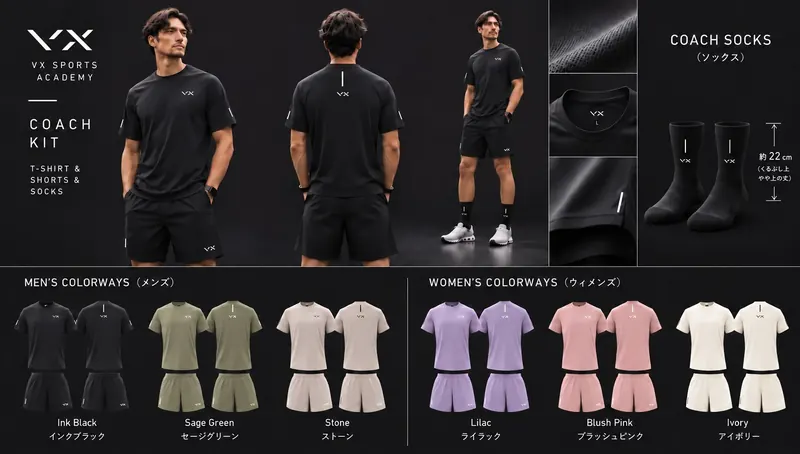
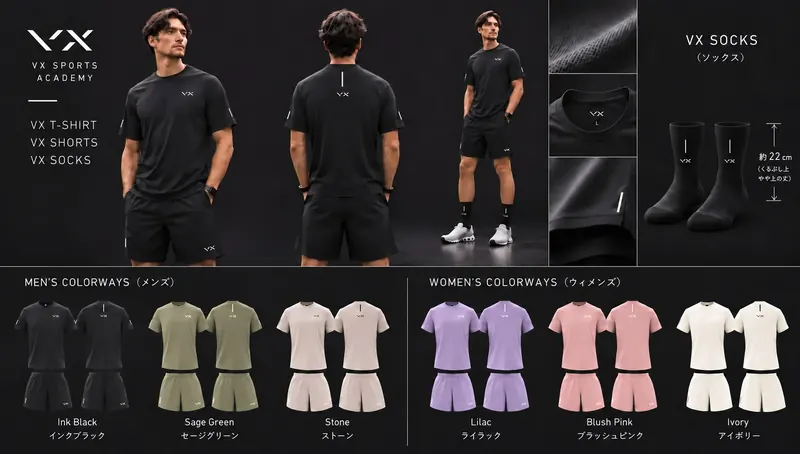
アパレルの商品画像を差し替え（COACHの文字なし・VX T-SHIRT／SHORTS／SOCKS）、共有画像とリールも更新
Claude-Session: https://claude.ai/code/session_01Bte9geLhnSJWd4mLwPLymb

diff --git a/apparel.html b/apparel.html
@@ -41,8 +41,10 @@
 <noscript><link rel="preload" as="style" href="https://fonts.googleapis.com/css2?family=Archivo:wdth,wght@62..125,300;62..125,400;62..125,500;62..125,600&family=Noto+Sans+JP:wght@400;500;700&display=swap" onload="this.onload=null;this.rel='stylesheet'">
 <noscript><link rel="preload" as="style" href="https://fonts.googleapis.com/css2?family=Archivo:wdth,wght@62..125,300;62..125,400;62..125,500;62..125,600&family=Noto+Sans+JP:wght@400;500;700&display=swap" onload="this.onload=null;this.rel='stylesheet'">
 <noscript><link rel="preload" as="style" href="https://fonts.googleapis.com/css2?family=Archivo:wdth,wght@62..125,300;62..125,400;62..125,500;62..125,600&family=Noto+Sans+JP:wght@400;500;700&display=swap" onload="this.onload=null;this.rel='stylesheet'">
-<noscript><link rel="stylesheet" href="https://fonts.googleapis.com/css2?family=Archivo:wdth,wght@62..125,300;62..125,400;62..125,500;62..125,600&family=Noto+Sans+JP:wght@400;500;700&display=swap"></noscript></noscript></noscript></noscript></noscript></noscript></noscript></noscript></noscript>
-<link rel="stylesheet" href="assets/site.css?v=1794979775">
+<noscript><link rel="preload" as="style" href="https://fonts.googleapis.com/css2?family=Archivo:wdth,wght@62..125,300;62..125,400;62..125,500;62..125,600&family=Noto+Sans+JP:wght@400;500;700&display=swap" onload="this.onload=null;this.rel='stylesheet'">
+<noscript><link rel="preload" as="style" href="https://fonts.googleapis.com/css2?family=Archivo:wdth,wght@62..125,300;62..125,400;62..125,500;62..125,600&family=Noto+Sans+JP:wght@400;500;700&display=swap" onload="this.onload=null;this.rel='stylesheet'">
+<noscript><link rel="stylesheet" href="https://fonts.googleapis.com/css2?family=Archivo:wdth,wght@62..125,300;62..125,400;62..125,500;62..125,600&family=Noto+Sans+JP:wght@400;500;700&display=swap"></noscript></noscript></noscript></noscript></noscript></noscript></noscript></noscript></noscript></noscript></noscript>
+<link rel="stylesheet" href="assets/site.css?v=1794980003">
 </head>
 <body>
 <header class="site-header">
@@ -82,7 +84,7 @@
         <span class="status fill">予約受付中 ／ PRE-ORDER</span>
         <h1 class="catch">動ける服を、<br>毎日の服に。</h1>
       </div>
-      <a class="apparel-link" href="assets/apparel-colors.jpg" target="_blank" rel="noopener"><img class="apparel-img" src="assets/apparel-colors.webp" srcset="assets/apparel-colors-800.webp 800w, assets/apparel-colors.webp 1536w" sizes="(max-width: 480px) 100vw, 480px" alt="VX APPAREL。メンズはインクブラック・セージグリーン・ストーン、ウィメンズはライラック・ブラッシュピンク・アイボリー" fetchpriority="high" width="1536" height="1024"></a>
+      <a class="apparel-link" href="assets/apparel-colors.jpg" target="_blank" rel="noopener"><img class="apparel-img" src="assets/apparel-colors.webp" srcset="assets/apparel-colors-800.webp 800w, assets/apparel-colors.webp 1536w" sizes="(max-width: 480px) 100vw, 480px" alt="VX T-SHIRT・VX SHORTS。メンズはインクブラック・セージグリーン・ストーン、ウィメンズはライラック・ブラッシュピンク・アイボリー" fetchpriority="high" width="1536" height="1024"></a>
       <p class="zoom-hint">画像をタップすると拡大できます</p>
       <p class="lead sub">軽量・速乾・吸汗速乾。4方向ストレッチと撥水性、動きやすいスリット、夜でも目立つリフレクティブ。トレーニングにも普段着にも使えるセットアップです。</p>
       <div class="products">
@@ -91,7 +93,7 @@
         <div class="product"><p class="en sub">VX SOCKS</p><p class="name">ソックス</p><p class="price">¥2,200<small>税込</small></p><p class="meta">約22cm丈・ブラック</p></div>
         <div class="product set"><p class="en sub">Full Kit</p><p class="name">3点セット</p><p class="price">¥19,800<small>税込</small></p><p class="meta">Tシャツ＋ショーツ＋ソックス<br>単品合計より¥2,200お得</p></div>
       </div>
-      <a class="apparel-link" href="assets/apparel-kit-2.jpg" target="_blank" rel="noopener"><img class="apparel-img" src="assets/apparel-kit-2.webp" srcset="assets/apparel-kit-2-800.webp 800w, assets/apparel-kit-2.webp 1536w" sizes="(max-width: 480px) 100vw, 480px" alt="VX APPARELの着用イメージ、ディテール、カラー展開" fetchpriority="high" width="1536" height="872"></a>
+      <a class="apparel-link" href="assets/apparel-kit-2.jpg" target="_blank" rel="noopener"><img class="apparel-img" src="assets/apparel-kit-2.webp" srcset="assets/apparel-kit-2-800.webp 800w, assets/apparel-kit-2.webp 1665w" sizes="(max-width: 480px) 100vw, 480px" alt="VX T-SHIRT・VX SHORTS・VX SOCKSの着用イメージ、ディテール、メンズ・ウィメンズのカラー展開" fetchpriority="high" width="1665" height="945"></a>
 
       <form class="order" id="order-form" aria-label="予約内容をつくる">
         <h2>PRE-ORDER</h2>
@@ -217,6 +219,6 @@
   update();
 })();
 </script>
-<script src="assets/i18n.js?v=1794979775"></script>
+<script src="assets/i18n.js?v=1794980003"></script>
 </body>
 </html>

diff --git a/en/apparel.html b/en/apparel.html
@@ -40,8 +40,10 @@
 <noscript><link rel="preload" as="style" href="https://fonts.googleapis.com/css2?family=Archivo:wdth,wght@62..125,300;62..125,400;62..125,500;62..125,600&family=Noto+Sans+JP:wght@400;500;700&display=swap" onload="this.onload=null;this.rel='stylesheet'">
 <noscript><link rel="preload" as="style" href="https://fonts.googleapis.com/css2?family=Archivo:wdth,wght@62..125,300;62..125,400;62..125,500;62..125,600&family=Noto+Sans+JP:wght@400;500;700&display=swap" onload="this.onload=null;this.rel='stylesheet'">
 <noscript><link rel="preload" as="style" href="https://fonts.googleapis.com/css2?family=Archivo:wdth,wght@62..125,300;62..125,400;62..125,500;62..125,600&family=Noto+Sans+JP:wght@400;500;700&display=swap" onload="this.onload=null;this.rel='stylesheet'">
+<noscript><link rel="preload" as="style" href="https://fonts.googleapis.com/css2?family=Archivo:wdth,wght@62..125,300;62..125,400;62..125,500;62..125,600&family=Noto+Sans+JP:wght@400;500;700&display=swap" onload="this.onload=null;this.rel='stylesheet'">
+<noscript><link rel="preload" as="style" href="https://fonts.googleapis.com/css2?family=Archivo:wdth,wght@62..125,300;62..125,400;62..125,500;62..125,600&family=Noto+Sans+JP:wght@400;500;700&display=swap" onload="this.onload=null;this.rel='stylesheet'">
 <noscript><link rel="stylesheet" href="https://fonts.googleapis.com/css2?family=Archivo:wdth,wght@62..125,300;62..125,400;62..125,500;62..125,600&family=Noto+Sans+JP:wght@400;500;700&display=swap"></noscript>
-<link rel="stylesheet" href="../assets/site.css?v=1794979775">
+<link rel="stylesheet" href="../assets/site.css?v=1794980003">
 </head>
 <body>
 <header class="site-header">
@@ -81,7 +83,7 @@
         <span class="status fill">Now Taking Pre-Orders ／ PRE-ORDER</span>
         <h1 class="catch">Clothes made to move,<br>for every day.</h1>
       </div>
-      <a class="apparel-link" href="../assets/apparel-colors.jpg" target="_blank" rel="noopener"><img class="apparel-img" src="../assets/apparel-colors.webp" srcset="../assets/apparel-colors-800.webp 800w, ../assets/apparel-colors.webp 1536w" sizes="(max-width: 480px) 100vw, 480px" alt="VX APPAREL。メンズはインクブラック・セージグリーン・ストーン、ウィメンズはライラック・ブラッシュピンク・アイボリー" fetchpriority="high" width="1536" height="1024"></a>
+      <a class="apparel-link" href="../assets/apparel-colors.jpg" target="_blank" rel="noopener"><img class="apparel-img" src="../assets/apparel-colors.webp" srcset="../assets/apparel-colors-800.webp 800w, ../assets/apparel-colors.webp 1536w" sizes="(max-width: 480px) 100vw, 480px" alt="VX T-SHIRT・VX SHORTS。メンズはインクブラック・セージグリーン・ストーン、ウィメンズはライラック・ブラッシュピンク・アイボリー" fetchpriority="high" width="1536" height="1024"></a>
       <p class="zoom-hint">Tap the image to enlarge</p>
       <p class="lead sub">Lightweight, quick-dry and sweat-wicking. 4-way stretch, water repellent, side slits for movement and reflective details for night. A set-up for training and everyday wear.</p>
       <div class="products">
@@ -90,7 +92,7 @@
         <div class="product"><p class="en sub">VX SOCKS</p><p class="name">Socks</p><p class="price">¥2,200<small>incl. tax</small></p><p class="meta">Approx. 22 cm, black</p></div>
         <div class="product set"><p class="en sub">Full Kit</p><p class="name">3-Piece Set</p><p class="price">¥19,800<small>incl. tax</small></p><p class="meta">T-shirt + shorts + socks<br>Save ¥2,200 vs. buying separately</p></div>
       </div>
-      <a class="apparel-link" href="../assets/apparel-kit-2.jpg" target="_blank" rel="noopener"><img class="apparel-img" src="../assets/apparel-kit-2.webp" srcset="../assets/apparel-kit-2-800.webp 800w, ../assets/apparel-kit-2.webp 1536w" sizes="(max-width: 480px) 100vw, 480px" alt="VX APPARELの着用イメージ、ディテール、カラー展開" fetchpriority="high" width="1536" height="872"></a>
+      <a class="apparel-link" href="../assets/apparel-kit-2.jpg" target="_blank" rel="noopener"><img class="apparel-img" src="../assets/apparel-kit-2.webp" srcset="../assets/apparel-kit-2-800.webp 800w, ../assets/apparel-kit-2.webp 1665w" sizes="(max-width: 480px) 100vw, 480px" alt="VX T-SHIRT・VX SHORTS・VX SOCKSの着用イメージ、ディテール、メンズ・ウィメンズのカラー展開" fetchpriority="high" width="1665" height="945"></a>
 
       <form class="order" id="order-form" aria-label="予約内容をつくる">
         <h2>PRE-ORDER</h2>
@@ -216,7 +218,7 @@
   update();
 })();
 </script>
-<script src="../assets/i18n.js?v=1794979775"></script>
+<script src="../assets/i18n.js?v=1794980003"></script>
 
 
 </body></html>

diff --git a/zh/apparel.html b/zh/apparel.html
@@ -40,8 +40,10 @@
 <noscript><link rel="preload" as="style" href="https://fonts.googleapis.com/css2?family=Archivo:wdth,wght@62..125,300;62..125,400;62..125,500;62..125,600&family=Noto+Sans+JP:wght@400;500;700&display=swap" onload="this.onload=null;this.rel='stylesheet'">
 <noscript><link rel="preload" as="style" href="https://fonts.googleapis.com/css2?family=Archivo:wdth,wght@62..125,300;62..125,400;62..125,500;62..125,600&family=Noto+Sans+JP:wght@400;500;700&display=swap" onload="this.onload=null;this.rel='stylesheet'">
 <noscript><link rel="preload" as="style" href="https://fonts.googleapis.com/css2?family=Archivo:wdth,wght@62..125,300;62..125,400;62..125,500;62..125,600&family=Noto+Sans+JP:wght@400;500;700&display=swap" onload="this.onload=null;this.rel='stylesheet'">
+<noscript><link rel="preload" as="style" href="https://fonts.googleapis.com/css2?family=Archivo:wdth,wght@62..125,300;62..125,400;62..125,500;62..125,600&family=Noto+Sans+JP:wght@400;500;700&display=swap" onload="this.onload=null;this.rel='stylesheet'">
+<noscript><link rel="preload" as="style" href="https://fonts.googleapis.com/css2?family=Archivo:wdth,wght@62..125,300;62..125,400;62..125,500;62..125,600&family=Noto+Sans+JP:wght@400;500;700&display=swap" onload="this.onload=null;this.rel='stylesheet'">
 <noscript><link rel="stylesheet" href="https://fonts.googleapis.com/css2?family=Archivo:wdth,wght@62..125,300;62..125,400;62..125,500;62..125,600&family=Noto+Sans+JP:wght@400;500;700&display=swap"></noscript>
-<link rel="stylesheet" href="../assets/site.css?v=1794979775">
+<link rel="stylesheet" href="../assets/site.css?v=1794980003">
 </head>
 <body>
 <header class="site-header">
@@ -81,7 +83,7 @@
         <span class="status fill">接受预订中 ／ PRE-ORDER</span>
         <h1 class="catch">能运动的衣服，<br>变成每天的衣服。</h1>
       </div>
-      <a class="apparel-link" href="../assets/apparel-colors.jpg" target="_blank" rel="noopener"><img class="apparel-img" src="../assets/apparel-colors.webp" srcset="../assets/apparel-colors-800.webp 800w, ../assets/apparel-colors.webp 1536w" sizes="(max-width: 480px) 100vw, 480px" alt="VX APPAREL。メンズはインクブラック・セージグリーン・ストーン、ウィメンズはライラック・ブラッシュピンク・アイボリー" fetchpriority="high" width="1536" height="1024"></a>
+      <a class="apparel-link" href="../assets/apparel-colors.jpg" target="_blank" rel="noopener"><img class="apparel-img" src="../assets/apparel-colors.webp" srcset="../assets/apparel-colors-800.webp 800w, ../assets/apparel-colors.webp 1536w" sizes="(max-width: 480px) 100vw, 480px" alt="VX T-SHIRT・VX SHORTS。メンズはインクブラック・セージグリーン・ストーン、ウィメンズはライラック・ブラッシュピンク・アイボリー" fetchpriority="high" width="1536" height="1024"></a>
       <p class="zoom-hint">点击图片可放大</p>
       <p class="lead sub">轻量、速干、吸汗。四向弹力与防泼水，便于活动的开衩，夜间醒目的反光设计。训练与日常皆宜的套装。</p>
       <div class="products">
@@ -90,7 +92,7 @@
         <div class="product"><p class="en sub">VX SOCKS</p><p class="name">袜子</p><p class="price">¥2,200<small>含税</small></p><p class="meta">约22cm长・黑色</p></div>
         <div class="product set"><p class="en sub">Full Kit</p><p class="name">三件套</p><p class="price">¥19,800<small>含税</small></p><p class="meta">T恤＋短裤＋袜子<br>比单买合计便宜¥2,200</p></div>
       </div>
-      <a class="apparel-link" href="../assets/apparel-kit-2.jpg" target="_blank" rel="noopener"><img class="apparel-img" src="../assets/apparel-kit-2.webp" srcset="../assets/apparel-kit-2-800.webp 800w, ../assets/apparel-kit-2.webp 1536w" sizes="(max-width: 480px) 100vw, 480px" alt="VX APPARELの着用イメージ、ディテール、カラー展開" fetchpriority="high" width="1536" height="872"></a>
+      <a class="apparel-link" href="../assets/apparel-kit-2.jpg" target="_blank" rel="noopener"><img class="apparel-img" src="../assets/apparel-kit-2.webp" srcset="../assets/apparel-kit-2-800.webp 800w, ../assets/apparel-kit-2.webp 1665w" sizes="(max-width: 480px) 100vw, 480px" alt="VX T-SHIRT・VX SHORTS・VX SOCKSの着用イメージ、ディテール、メンズ・ウィメンズのカラー展開" fetchpriority="high" width="1665" height="945"></a>
 
       <form class="order" id="order-form" aria-label="予約内容をつくる">
         <h2>PRE-ORDER</h2>
@@ -216,7 +218,7 @@
   update();
 })();
 </script>
-<script src="../assets/i18n.js?v=1794979775"></script>
+<script src="../assets/i18n.js?v=1794980003"></script>
 
 
 </body></html>

diff --git a/index.html b/index.html
@@ -43,8 +43,10 @@
 <noscript><link rel="preload" as="style" href="https://fonts.googleapis.com/css2?family=Archivo:wdth,wght@62..125,300;62..125,400;62..125,500;62..125,600&family=Noto+Sans+JP:wght@400;500;700&display=swap" onload="this.onload=null;this.rel='stylesheet'">
 <noscript><link rel="preload" as="style" href="https://fonts.googleapis.com/css2?family=Archivo:wdth,wght@62..125,300;62..125,400;62..125,500;62..125,600&family=Noto+Sans+JP:wght@400;500;700&display=swap" onload="this.onload=null;this.rel='stylesheet'">
 <noscript><link rel="preload" as="style" href="https://fonts.googleapis.com/css2?family=Archivo:wdth,wght@62..125,300;62..125,400;62..125,500;62..125,600&family=Noto+Sans+JP:wght@400;500;700&display=swap" onload="this.onload=null;this.rel='stylesheet'">
-<noscript><link rel="stylesheet" href="https://fonts.googleapis.com/css2?family=Archivo:wdth,wght@62..125,300;62..125,400;62..125,500;62..125,600&family=Noto+Sans+JP:wght@400;500;700&display=swap"></noscript></noscript></noscript></noscript></noscript></noscript></noscript></noscript></noscript>
-<link rel="stylesheet" href="assets/site.css?v=1794979775">
+<noscript><link rel="preload" as="style" href="https://fonts.googleapis.com/css2?family=Archivo:wdth,wght@62..125,300;62..125,400;62..125,500;62..125,600&family=Noto+Sans+JP:wght@400;500;700&display=swap" onload="this.onload=null;this.rel='stylesheet'">
+<noscript><link rel="preload" as="style" href="https://fonts.googleapis.com/css2?family=Archivo:wdth,wght@62..125,300;62..125,400;62..125,500;62..125,600&family=Noto+Sans+JP:wght@400;500;700&display=swap" onload="this.onload=null;this.rel='stylesheet'">
+<noscript><link rel="stylesheet" href="https://fonts.googleapis.com/css2?family=Archivo:wdth,wght@62..125,300;62..125,400;62..125,500;62..125,600&family=Noto+Sans+JP:wght@400;500;700&display=swap"></noscript></noscript></noscript></noscript></noscript></noscript></noscript></noscript></noscript></noscript></noscript>
+<link rel="stylesheet" href="assets/site.css?v=1794980003">
 </head>
 <body>
 <header class="site-header">
@@ -141,7 +143,7 @@
       <h2 class="lockup big-word" aria-label="VX APPAREL"><img src="assets/logo.svg" alt="" width="332" height="104"><i></i><span>APPAREL</span></h2>
       <p class="cat-kind">アパレル</p>
       <span class="svc-status"><i aria-hidden="true"></i>予約受付中</span>
-      <a class="cat-img" href="apparel.html" aria-label="VX APPARELを見る"><img src="assets/apparel-kit-2.webp" srcset="assets/apparel-kit-2-800.webp 800w, assets/apparel-kit-2.webp 1536w" sizes="(max-width: 480px) 100vw, 480px" alt="VX APPAREL：普段着にもなるアパレル（Tシャツ・ショーツ・ソックス）" loading="lazy" width="1536" height="1024"></a>
+      <a class="cat-img" href="apparel.html" aria-label="VX APPARELを見る"><img src="assets/apparel-kit-2.webp" srcset="assets/apparel-kit-2-800.webp 800w, assets/apparel-kit-2.webp 1665w" sizes="(max-width: 480px) 100vw, 480px" alt="VX APPAREL：普段着にもなるアパレル（Tシャツ・ショーツ・ソックス）" loading="lazy" width="1665" height="945"></a>
       <p class="cat-copy">動ける服を、毎日の服に。</p>
       <ul class="cat-facts"><li>3点セット ¥19,800</li><li>メンズ・ウィメンズ 6色</li><li>予約注文</li></ul>
       <a class="svc-more cat-btn" href="apparel.html">詳しく見る</a>
@@ -255,6 +257,6 @@
   <a class="p" href="https://lin.ee/P7ZYT6p" target="_blank" rel="noopener"><svg viewBox="0 0 24 24" fill="none" stroke="currentColor" stroke-width="1.8" aria-hidden="true"><path d="M12 4C7 4 3 7.2 3 11.2c0 3.6 3.2 6.6 7.5 7.1-.2.9-.6 2.1-.7 2.4 0 .3.3.5.6.3 1.2-.8 4.3-2.8 5.9-4.3 2.3-1.3 3.7-3.3 3.7-5.5C21 7.2 17 4 12 4Z"/></svg>LINEでお問い合わせ</a>
 </div>
 
-<script src="assets/i18n.js?v=1794979775"></script>
+<script src="assets/i18n.js?v=1794980003"></script>
 </body>
 </html>

diff --git a/en/index.html b/en/index.html
@@ -42,8 +42,10 @@
 <noscript><link rel="preload" as="style" href="https://fonts.googleapis.com/css2?family=Archivo:wdth,wght@62..125,300;62..125,400;62..125,500;62..125,600&family=Noto+Sans+JP:wght@400;500;700&display=swap" onload="this.onload=null;this.rel='stylesheet'">
 <noscript><link rel="preload" as="style" href="https://fonts.googleapis.com/css2?family=Archivo:wdth,wght@62..125,300;62..125,400;62..125,500;62..125,600&family=Noto+Sans+JP:wght@400;500;700&display=swap" onload="this.onload=null;this.rel='stylesheet'">
 <noscript><link rel="preload" as="style" href="https://fonts.googleapis.com/css2?family=Archivo:wdth,wght@62..125,300;62..125,400;62..125,500;62..125,600&family=Noto+Sans+JP:wght@400;500;700&display=swap" onload="this.onload=null;this.rel='stylesheet'">
+<noscript><link rel="preload" as="style" href="https://fonts.googleapis.com/css2?family=Archivo:wdth,wght@62..125,300;62..125,400;62..125,500;62..125,600&family=Noto+Sans+JP:wght@400;500;700&display=swap" onload="this.onload=null;this.rel='stylesheet'">
+<noscript><link rel="preload" as="style" href="https://fonts.googleapis.com/css2?family=Archivo:wdth,wght@62..125,300;62..125,400;62..125,500;62..125,600&family=Noto+Sans+JP:wght@400;500;700&display=swap" onload="this.onload=null;this.rel='stylesheet'">
 <noscript><link rel="stylesheet" href="https://fonts.googleapis.com/css2?family=Archivo:wdth,wght@62..125,300;62..125,400;62..125,500;62..125,600&family=Noto+Sans+JP:wght@400;500;700&display=swap"></noscript>
-<link rel="stylesheet" href="../assets/site.css?v=1794979775">
+<link rel="stylesheet" href="../assets/site.css?v=1794980003">
 </head>
 <body>
 <header class="site-header">
@@ -140,7 +142,7 @@
       <h2 class="lockup big-word" aria-label="VX APPAREL"><img src="../assets/logo.svg" alt="" width="332" height="104"><i></i><span>APPAREL</span></h2>
       <p class="cat-kind">Apparel</p>
       <span class="svc-status"><i aria-hidden="true"></i>Pre-orders open</span>
-      <a class="cat-img" href="apparel.html" aria-label="VX APPARELを見る"><img src="../assets/apparel-kit-2.webp" srcset="../assets/apparel-kit-2-800.webp 800w, ../assets/apparel-kit-2.webp 1536w" sizes="(max-width: 480px) 100vw, 480px" alt="VX APPAREL：普段着にもなるアパレル（Tシャツ・ショーツ・ソックス）" loading="lazy" width="1536" height="1024"></a>
+      <a class="cat-img" href="apparel.html" aria-label="VX APPARELを見る"><img src="../assets/apparel-kit-2.webp" srcset="../assets/apparel-kit-2-800.webp 800w, ../assets/apparel-kit-2.webp 1665w" sizes="(max-width: 480px) 100vw, 480px" alt="VX APPAREL：普段着にもなるアパレル（Tシャツ・ショーツ・ソックス）" loading="lazy" width="1665" height="945"></a>
       <p class="cat-copy">Clothes made to move, for every day.</p>
       <ul class="cat-facts"><li>3-Piece Set ¥19,800</li><li>Men's &amp; women's, 6 colors</li><li>Pre-order</li></ul>
       <a class="svc-more cat-btn" href="apparel.html">See details</a>
@@ -254,7 +256,7 @@
   <a class="p" href="https://lin.ee/P7ZYT6p" target="_blank" rel="noopener"><svg viewBox="0 0 24 24" fill="none" stroke="currentColor" stroke-width="1.8" aria-hidden="true"><path d="M12 4C7 4 3 7.2 3 11.2c0 3.6 3.2 6.6 7.5 7.1-.2.9-.6 2.1-.7 2.4 0 .3.3.5.6.3 1.2-.8 4.3-2.8 5.9-4.3 2.3-1.3 3.7-3.3 3.7-5.5C21 7.2 17 4 12 4Z"></path></svg>Contact us on LINE</a>
 </div>
 
-<script src="../assets/i18n.js?v=1794979775"></script>
+<script src="../assets/i18n.js?v=1794980003"></script>
 
 
 </body></html>

diff --git a/zh/index.html b/zh/index.html
@@ -42,8 +42,10 @@
 <noscript><link rel="preload" as="style" href="https://fonts.googleapis.com/css2?family=Archivo:wdth,wght@62..125,300;62..125,400;62..125,500;62..125,600&family=Noto+Sans+JP:wght@400;500;700&display=swap" onload="this.onload=null;this.rel='stylesheet'">
 <noscript><link rel="preload" as="style" href="https://fonts.googleapis.com/css2?family=Archivo:wdth,wght@62..125,300;62..125,400;62..125,500;62..125,600&family=Noto+Sans+JP:wght@400;500;700&display=swap" onload="this.onload=null;this.rel='stylesheet'">
 <noscript><link rel="preload" as="style" href="https://fonts.googleapis.com/css2?family=Archivo:wdth,wght@62..125,300;62..125,400;62..125,500;62..125,600&family=Noto+Sans+JP:wght@400;500;700&display=swap" onload="this.onload=null;this.rel='stylesheet'">
+<noscript><link rel="preload" as="style" href="https://fonts.googleapis.com/css2?family=Archivo:wdth,wght@62..125,300;62..125,400;62..125,500;62..125,600&family=Noto+Sans+JP:wght@400;500;700&display=swap" onload="this.onload=null;this.rel='stylesheet'">
+<noscript><link rel="preload" as="style" href="https://fonts.googleapis.com/css2?family=Archivo:wdth,wght@62..125,300;62..125,400;62..125,500;62..125,600&family=Noto+Sans+JP:wght@400;500;700&display=swap" onload="this.onload=null;this.rel='stylesheet'">
 <noscript><link rel="stylesheet" href="https://fonts.googleapis.com/css2?family=Archivo:wdth,wght@62..125,300;62..125,400;62..125,500;62..125,600&family=Noto+Sans+JP:wght@400;500;700&display=swap"></noscript>
-<link rel="stylesheet" href="../assets/site.css?v=1794979775">
+<link rel="stylesheet" href="../assets/site.css?v=1794980003">
 </head>
 <body>
 <header class="site-header">
@@ -140,7 +142,7 @@
       <h2 class="lockup big-word" aria-label="VX APPAREL"><img src="../assets/logo.svg" alt="" width="332" height="104"><i></i><span>APPAREL</span></h2>
       <p class="cat-kind">服饰</p>
       <span class="svc-status"><i aria-hidden="true"></i>接受预订中</span>
-      <a class="cat-img" href="apparel.html" aria-label="VX APPARELを見る"><img src="../assets/apparel-kit-2.webp" srcset="../assets/apparel-kit-2-800.webp 800w, ../assets/apparel-kit-2.webp 1536w" sizes="(max-width: 480px) 100vw, 480px" alt="VX APPAREL：普段着にもなるアパレル（Tシャツ・ショーツ・ソックス）" loading="lazy" width="1536" height="1024"></a>
+      <a class="cat-img" href="apparel.html" aria-label="VX APPARELを見る"><img src="../assets/apparel-kit-2.webp" srcset="../assets/apparel-kit-2-800.webp 800w, ../assets/apparel-kit-2.webp 1665w" sizes="(max-width: 480px) 100vw, 480px" alt="VX APPAREL：普段着にもなるアパレル（Tシャツ・ショーツ・ソックス）" loading="lazy" width="1665" height="945"></a>
       <p class="cat-copy">能运动的衣服，变成每天的衣服。</p>
       <ul class="cat-facts"><li>三件套 ¥19,800</li><li>男款・女款 6色</li><li>预订</li></ul>
       <a class="svc-more cat-btn" href="apparel.html">查看详情</a>
@@ -254,7 +256,7 @@
   <a class="p" href="https://lin.ee/P7ZYT6p" target="_blank" rel="noopener"><svg viewBox="0 0 24 24" fill="none" stroke="currentColor" stroke-width="1.8" aria-hidden="true"><path d="M12 4C7 4 3 7.2 3 11.2c0 3.6 3.2 6.6 7.5 7.1-.2.9-.6 2.1-.7 2.4 0 .3.3.5.6.3 1.2-.8 4.3-2.8 5.9-4.3 2.3-1.3 3.7-3.3 3.7-5.5C21 7.2 17 4 12 4Z"></path></svg>通过LINE咨询</a>
 </div>
 
-<script src="../assets/i18n.js?v=1794979775"></script>
+<script src="../assets/i18n.js?v=1794980003"></script>
 
 
 </body></html>

diff --git a/soccer.html b/soccer.html
@@ -41,8 +41,10 @@
 <noscript><link rel="preload" as="style" href="https://fonts.googleapis.com/css2?family=Archivo:wdth,wght@62..125,300;62..125,400;62..125,500;62..125,600&family=Noto+Sans+JP:wght@400;500;700&display=swap" onload="this.onload=null;this.rel='stylesheet'">
 <noscript><link rel="preload" as="style" href="https://fonts.googleapis.com/css2?family=Archivo:wdth,wght@62..125,300;62..125,400;62..125,500;62..125,600&family=Noto+Sans+JP:wght@400;500;700&display=swap" onload="this.onload=null;this.rel='stylesheet'">
 <noscript><link rel="preload" as="style" href="https://fonts.googleapis.com/css2?family=Archivo:wdth,wght@62..125,300;62..125,400;62..125,500;62..125,600&family=Noto+Sans+JP:wght@400;500;700&display=swap" onload="this.onload=null;this.rel='stylesheet'">
-<noscript><link rel="stylesheet" href="https://fonts.googleapis.com/css2?family=Archivo:wdth,wght@62..125,300;62..125,400;62..125,500;62..125,600&family=Noto+Sans+JP:wght@400;500;700&display=swap"></noscript></noscript></noscript></noscript></noscript></noscript></noscript></noscript></noscript>
-<link rel="stylesheet" href="assets/site.css?v=1794979775">
+<noscript><link rel="preload" as="style" href="https://fonts.googleapis.com/css2?family=Archivo:wdth,wght@62..125,300;62..125,400;62..125,500;62..125,600&family=Noto+Sans+JP:wght@400;500;700&display=swap" onload="this.onload=null;this.rel='stylesheet'">
+<noscript><link rel="preload" as="style" href="https://fonts.googleapis.com/css2?family=Archivo:wdth,wght@62..125,300;62..125,400;62..125,500;62..125,600&family=Noto+Sans+JP:wght@400;500;700&display=swap" onload="this.onload=null;this.rel='stylesheet'">
+<noscript><link rel="stylesheet" href="https://fonts.googleapis.com/css2?family=Archivo:wdth,wght@62..125,300;62..125,400;62..125,500;62..125,600&family=Noto+Sans+JP:wght@400;500;700&display=swap"></noscript></noscript></noscript></noscript></noscript></noscript></noscript></noscript></noscript></noscript></noscript>
+<link rel="stylesheet" href="assets/site.css?v=1794980003">
 </head>
 <body>
 <header class="site-header">
@@ -174,6 +176,6 @@
   <a class="s" href="#football-kit">ユニフォーム</a>
 </div>
 
-<script src="assets/i18n.js?v=1794979775"></script>
+<script src="assets/i18n.js?v=1794980003"></script>
 </body>
 </html>

diff --git a/gym.html b/gym.html
@@ -41,8 +41,10 @@
 <noscript><link rel="preload" as="style" href="https://fonts.googleapis.com/css2?family=Archivo:wdth,wght@62..125,300;62..125,400;62..125,500;62..125,600&family=Noto+Sans+JP:wght@400;500;700&display=swap" onload="this.onload=null;this.rel='stylesheet'">
 <noscript><link rel="preload" as="style" href="https://fonts.googleapis.com/css2?family=Archivo:wdth,wght@62..125,300;62..125,400;62..125,500;62..125,600&family=Noto+Sans+JP:wght@400;500;700&display=swap" onload="this.onload=null;this.rel='stylesheet'">
 <noscript><link rel="preload" as="style" href="https://fonts.googleapis.com/css2?family=Archivo:wdth,wght@62..125,300;62..125,400;62..125,500;62..125,600&family=Noto+Sans+JP:wght@400;500;700&display=swap" onload="this.onload=null;this.rel='stylesheet'">
-<noscript><link rel="stylesheet" href="https://fonts.googleapis.com/css2?family=Archivo:wdth,wght@62..125,300;62..125,400;62..125,500;62..125,600&family=Noto+Sans+JP:wght@400;500;700&display=swap"></noscript></noscript></noscript></noscript></noscript></noscript></noscript></noscript></noscript>
-<link rel="stylesheet" href="assets/site.css?v=1794979775">
+<noscript><link rel="preload" as="style" href="https://fonts.googleapis.com/css2?family=Archivo:wdth,wght@62..125,300;62..125,400;62..125,500;62..125,600&family=Noto+Sans+JP:wght@400;500;700&display=swap" onload="this.onload=null;this.rel='stylesheet'">
+<noscript><link rel="preload" as="style" href="https://fonts.googleapis.com/css2?family=Archivo:wdth,wght@62..125,300;62..125,400;62..125,500;62..125,600&family=Noto+Sans+JP:wght@400;500;700&display=swap" onload="this.onload=null;this.rel='stylesheet'">
+<noscript><link rel="stylesheet" href="https://fonts.googleapis.com/css2?family=Archivo:wdth,wght@62..125,300;62..125,400;62..125,500;62..125,600&family=Noto+Sans+JP:wght@400;500;700&display=swap"></noscript></noscript></noscript></noscript></noscript></noscript></noscript></noscript></noscript></noscript></noscript>
+<link rel="stylesheet" href="assets/site.css?v=1794980003">
 </head>
 <body>
 <header class="site-header">
@@ -162,6 +164,6 @@
   <a class="s" href="#gym-price">料金</a>
 </div>
 
-<script src="assets/i18n.js?v=1794979775"></script>
+<script src="assets/i18n.js?v=1794980003"></script>
 </body>
 </html>

diff --git a/personal.html b/personal.html
@@ -41,8 +41,10 @@
 <noscript><link rel="preload" as="style" href="https://fonts.googleapis.com/css2?family=Archivo:wdth,wght@62..125,300;62..125,400;62..125,500;62..125,600&family=Noto+Sans+JP:wght@400;500;700&display=swap" onload="this.onload=null;this.rel='stylesheet'">
 <noscript><link rel="preload" as="style" href="https://fonts.googleapis.com/css2?family=Archivo:wdth,wght@62..125,300;62..125,400;62..125,500;62..125,600&family=Noto+Sans+JP:wght@400;500;700&display=swap" onload="this.onload=null;this.rel='stylesheet'">
 <noscript><link rel="preload" as="style" href="https://fonts.googleapis.com/css2?family=Archivo:wdth,wght@62..125,300;62..125,400;62..125,500;62..125,600&family=Noto+Sans+JP:wght@400;500;700&display=swap" onload="this.onload=null;this.rel='stylesheet'">
-<noscript><link rel="stylesheet" href="https://fonts.googleapis.com/css2?family=Archivo:wdth,wght@62..125,300;62..125,400;62..125,500;62..125,600&family=Noto+Sans+JP:wght@400;500;700&display=swap"></noscript></noscript></noscript></noscript></noscript></noscript></noscript></noscript></noscript>
-<link rel="stylesheet" href="assets/site.css?v=1794979775">
+<noscript><link rel="preload" as="style" href="https://fonts.googleapis.com/css2?family=Archivo:wdth,wght@62..125,300;62..125,400;62..125,500;62..125,600&family=Noto+Sans+JP:wght@400;500;700&display=swap" onload="this.onload=null;this.rel='stylesheet'">
+<noscript><link rel="preload" as="style" href="https://fonts.googleapis.com/css2?family=Archivo:wdth,wght@62..125,300;62..125,400;62..125,500;62..125,600&family=Noto+Sans+JP:wght@400;500;700&display=swap" onload="this.onload=null;this.rel='stylesheet'">
+<noscript><link rel="stylesheet" href="https://fonts.googleapis.com/css2?family=Archivo:wdth,wght@62..125,300;62..125,400;62..125,500;62..125,600&family=Noto+Sans+JP:wght@400;500;700&display=swap"></noscript></noscript></noscript></noscript></noscript></noscript></noscript></noscript></noscript></noscript></noscript>
+<link rel="stylesheet" href="assets/site.css?v=1794980003">
 </head>
 <body>
 <header class="site-header">
@@ -187,6 +189,6 @@
   <a class="s" href="#price">料金</a>
 </div>
 
-<script src="assets/i18n.js?v=1794979775"></script>
+<script src="assets/i18n.js?v=1794980003"></script>
 </body>
 </html>

diff --git a/tokushoho.html b/tokushoho.html
@@ -24,8 +24,10 @@
 <noscript><link rel="preload" as="style" href="https://fonts.googleapis.com/css2?family=Archivo:wdth,wght@62..125,300;62..125,400;62..125,500;62..125,600&family=Noto+Sans+JP:wght@400;500;700&display=swap" onload="this.onload=null;this.rel='stylesheet'">
 <noscript><link rel="preload" as="style" href="https://fonts.googleapis.com/css2?family=Archivo:wdth,wght@62..125,300;62..125,400;62..125,500;62..125,600&family=Noto+Sans+JP:wght@400;500;700&display=swap" onload="this.onload=null;this.rel='stylesheet'">
 <noscript><link rel="preload" as="style" href="https://fonts.googleapis.com/css2?family=Archivo:wdth,wght@62..125,300;62..125,400;62..125,500;62..125,600&family=Noto+Sans+JP:wght@400;500;700&display=swap" onload="this.onload=null;this.rel='stylesheet'">
-<noscript><link rel="stylesheet" href="https://fonts.googleapis.com/css2?family=Archivo:wdth,wght@62..125,300;62..125,400;62..125,500;62..125,600&family=Noto+Sans+JP:wght@400;500;700&display=swap"></noscript></noscript></noscript></noscript></noscript></noscript></noscript></noscript></noscript>
-<link rel="stylesheet" href="assets/site.css?v=1794979775">
+<noscript><link rel="preload" as="style" href="https://fonts.googleapis.com/css2?family=Archivo:wdth,wght@62..125,300;62..125,400;62..125,500;62..125,600&family=Noto+Sans+JP:wght@400;500;700&display=swap" onload="this.onload=null;this.rel='stylesheet'">
+<noscript><link rel="preload" as="style" href="https://fonts.googleapis.com/css2?family=Archivo:wdth,wght@62..125,300;62..125,400;62..125,500;62..125,600&family=Noto+Sans+JP:wght@400;500;700&display=swap" onload="this.onload=null;this.rel='stylesheet'">
+<noscript><link rel="stylesheet" href="https://fonts.googleapis.com/css2?family=Archivo:wdth,wght@62..125,300;62..125,400;62..125,500;62..125,600&family=Noto+Sans+JP:wght@400;500;700&display=swap"></noscript></noscript></noscript></noscript></noscript></noscript></noscript></noscript></noscript></noscript></noscript>
+<link rel="stylesheet" href="assets/site.css?v=1794980003">
 </head>
 <body>
 <header class="site-header">
@@ -92,6 +94,6 @@
 </footer>
 
 
-<script src="assets/i18n.js?v=1794979775"></script>
+<script src="assets/i18n.js?v=1794980003"></script>
 </body>
 </html>

diff --git a/zh/soccer.html b/zh/soccer.html
@@ -40,8 +40,10 @@
 <noscript><link rel="preload" as="style" href="https://fonts.googleapis.com/css2?family=Archivo:wdth,wght@62..125,300;62..125,400;62..125,500;62..125,600&family=Noto+Sans+JP:wght@400;500;700&display=swap" onload="this.onload=null;this.rel='stylesheet'">
 <noscript><link rel="preload" as="style" href="https://fonts.googleapis.com/css2?family=Archivo:wdth,wght@62..125,300;62..125,400;62..125,500;62..125,600&family=Noto+Sans+JP:wght@400;500;700&display=swap" onload="this.onload=null;this.rel='stylesheet'">
 <noscript><link rel="preload" as="style" href="https://fonts.googleapis.com/css2?family=Archivo:wdth,wght@62..125,300;62..125,400;62..125,500;62..125,600&family=Noto+Sans+JP:wght@400;500;700&display=swap" onload="this.onload=null;this.rel='stylesheet'">
+<noscript><link rel="preload" as="style" href="https://fonts.googleapis.com/css2?family=Archivo:wdth,wght@62..125,300;62..125,400;62..125,500;62..125,600&family=Noto+Sans+JP:wght@400;500;700&display=swap" onload="this.onload=null;this.rel='stylesheet'">
+<noscript><link rel="preload" as="style" href="https://fonts.googleapis.com/css2?family=Archivo:wdth,wght@62..125,300;62..125,400;62..125,500;62..125,600&family=Noto+Sans+JP:wght@400;500;700&display=swap" onload="this.onload=null;this.rel='stylesheet'">
 <noscript><link rel="stylesheet" href="https://fonts.googleapis.com/css2?family=Archivo:wdth,wght@62..125,300;62..125,400;62..125,500;62..125,600&family=Noto+Sans+JP:wght@400;500;700&display=swap"></noscript>
-<link rel="stylesheet" href="../assets/site.css?v=1794979775">
+<link rel="stylesheet" href="../assets/site.css?v=1794980003">
 </head>
 <body>
 <header class="site-header">
@@ -173,7 +175,7 @@
   <a class="s" href="#football-kit">队服</a>
 </div>
 
-<script src="../assets/i18n.js?v=1794979775"></script>
+<script src="../assets/i18n.js?v=1794980003"></script>
 
 
 </body></html>

diff --git a/en/gym.html b/en/gym.html
@@ -40,8 +40,10 @@
 <noscript><link rel="preload" as="style" href="https://fonts.googleapis.com/css2?family=Archivo:wdth,wght@62..125,300;62..125,400;62..125,500;62..125,600&family=Noto+Sans+JP:wght@400;500;700&display=swap" onload="this.onload=null;this.rel='stylesheet'">
 <noscript><link rel="preload" as="style" href="https://fonts.googleapis.com/css2?family=Archivo:wdth,wght@62..125,300;62..125,400;62..125,500;62..125,600&family=Noto+Sans+JP:wght@400;500;700&display=swap" onload="this.onload=null;this.rel='stylesheet'">
 <noscript><link rel="preload" as="style" href="https://fonts.googleapis.com/css2?family=Archivo:wdth,wght@62..125,300;62..125,400;62..125,500;62..125,600&family=Noto+Sans+JP:wght@400;500;700&display=swap" onload="this.onload=null;this.rel='stylesheet'">
+<noscript><link rel="preload" as="style" href="https://fonts.googleapis.com/css2?family=Archivo:wdth,wght@62..125,300;62..125,400;62..125,500;62..125,600&family=Noto+Sans+JP:wght@400;500;700&display=swap" onload="this.onload=null;this.rel='stylesheet'">
+<noscript><link rel="preload" as="style" href="https://fonts.googleapis.com/css2?family=Archivo:wdth,wght@62..125,300;62..125,400;62..125,500;62..125,600&family=Noto+Sans+JP:wght@400;500;700&display=swap" onload="this.onload=null;this.rel='stylesheet'">
 <noscript><link rel="stylesheet" href="https://fonts.googleapis.com/css2?family=Archivo:wdth,wght@62..125,300;62..125,400;62..125,500;62..125,600&family=Noto+Sans+JP:wght@400;500;700&display=swap"></noscript>
-<link rel="stylesheet" href="../assets/site.css?v=1794979775">
+<link rel="stylesheet" href="../assets/site.css?v=1794980003">
 </head>
 <body>
 <header class="site-header">
@@ -161,7 +163,7 @@
   <a class="s" href="#gym-price">Pricing</a>
 </div>
 
-<script src="../assets/i18n.js?v=1794979775"></script>
+<script src="../assets/i18n.js?v=1794980003"></script>
 
 
 </body></html>
